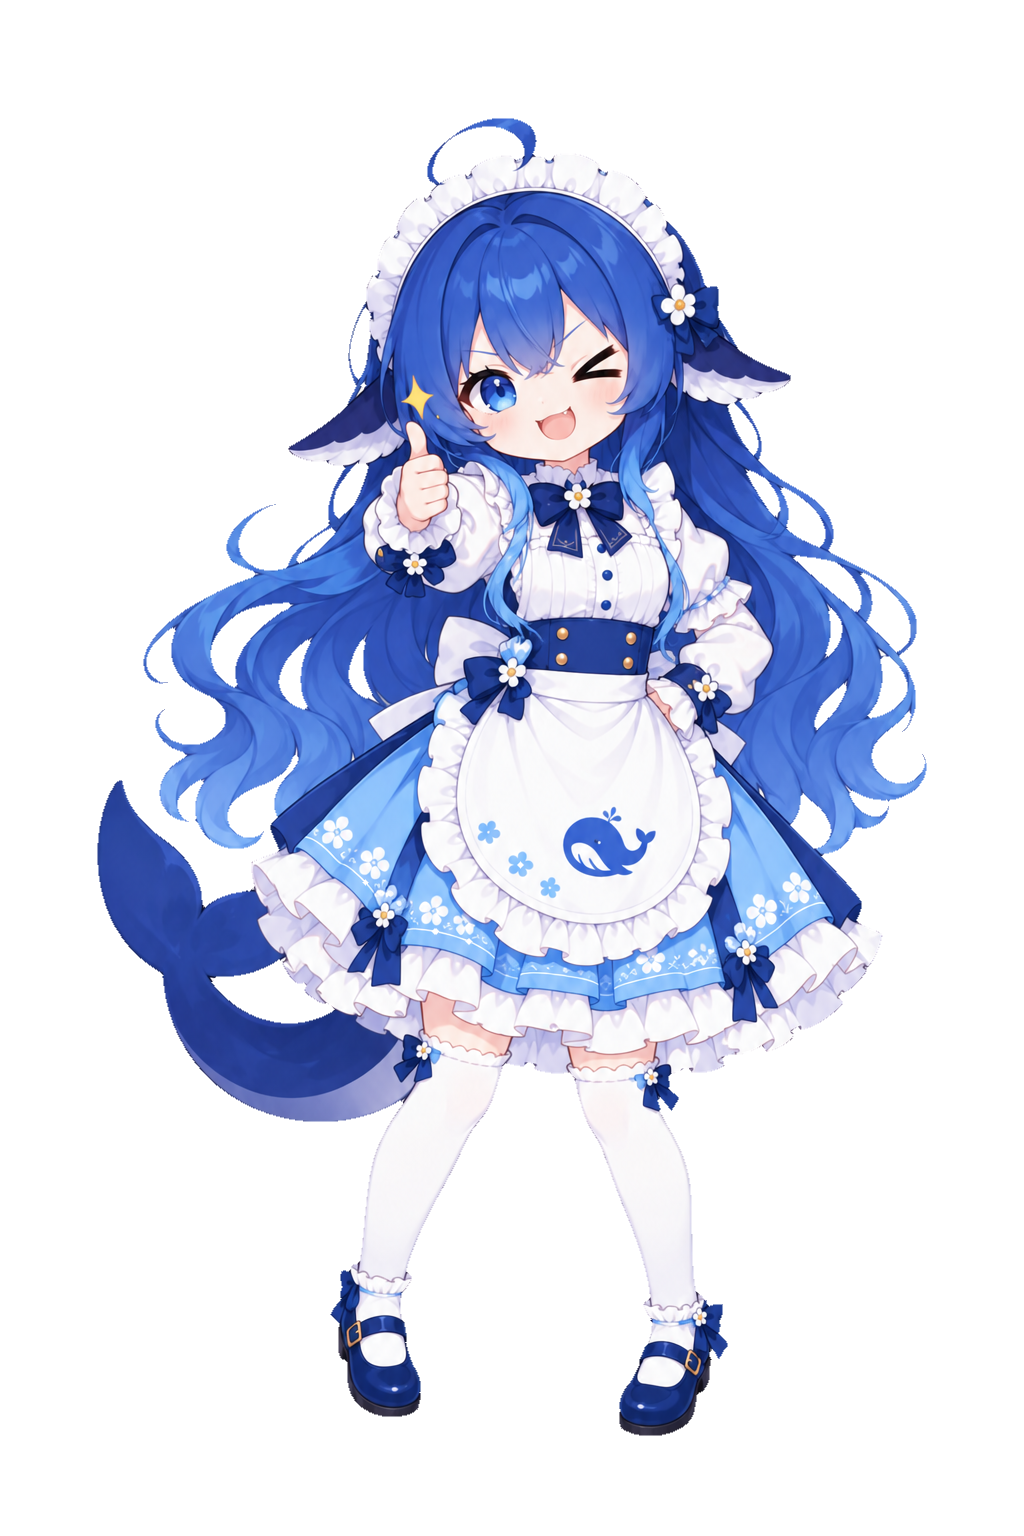
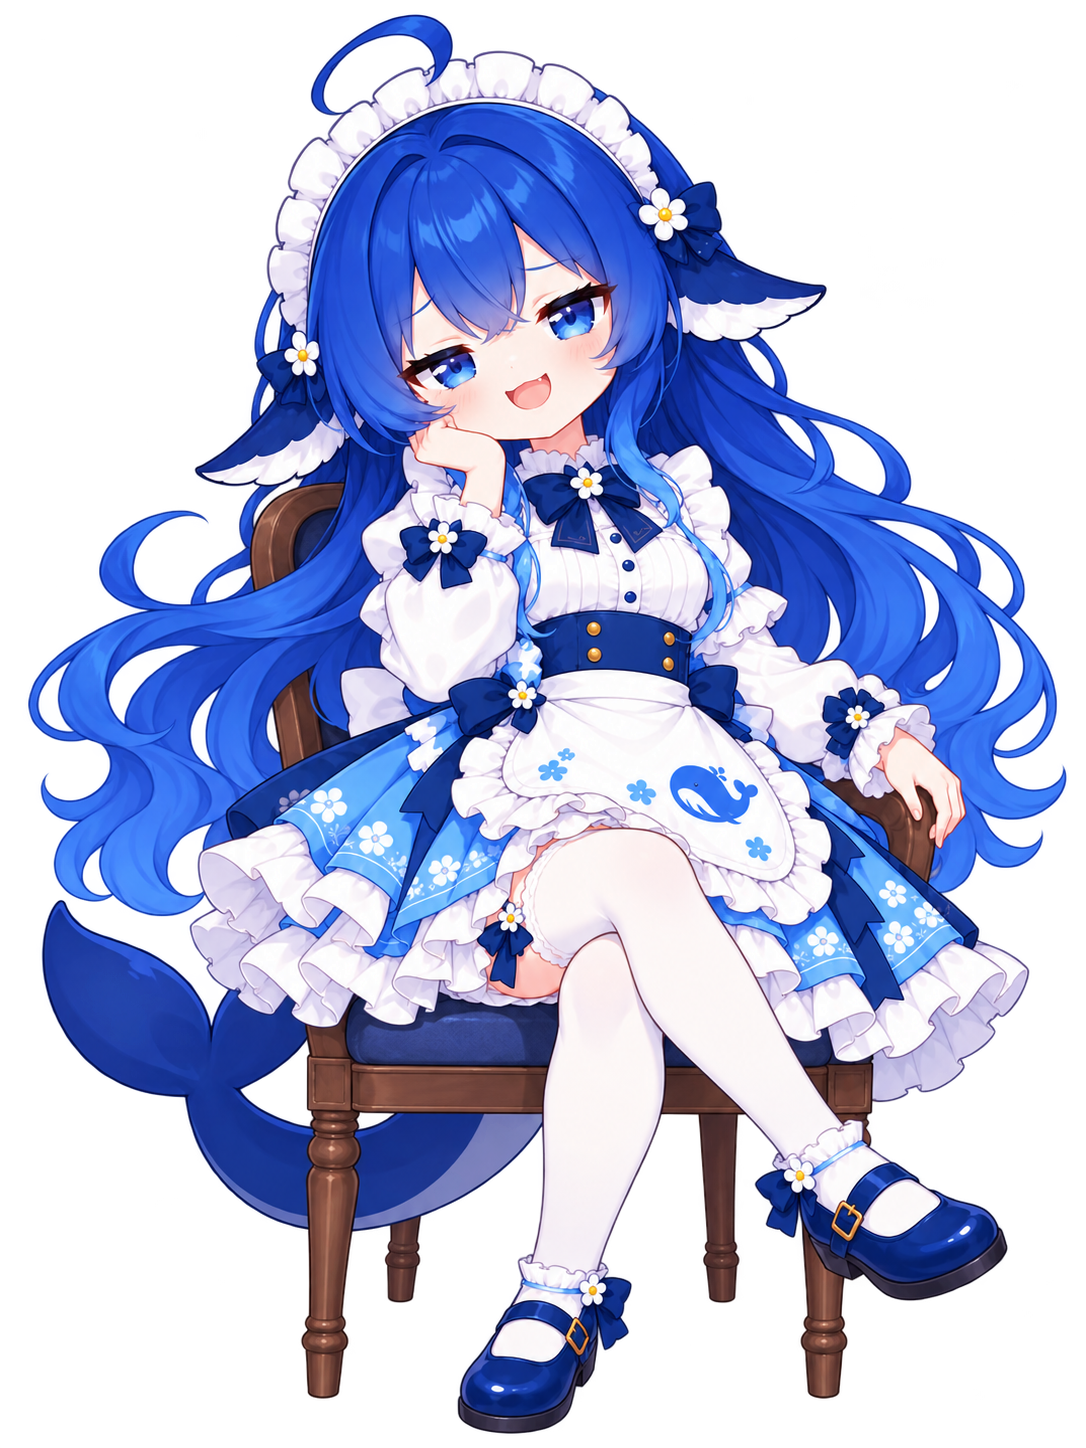
对话立绘整体替换为 2026-10-16 新批 11 张：新图已是透明成品直接落位 transparent/，白底原图同步为新图纯白合成版，更新 portraits.json 元数据（textures 键与路径未动），附白边量化报告

diff --git a/00_对话立绘替换_20261016.md b/00_对话立绘替换_20261016.md
@@ -1,0 +1,104 @@
+# 对话立绘整体替换（2026-10-16）
+
+用户提供 11 张新立绘，**整批替换**原来的 11 张对话差分。入口路径、表情键、剧情引用、存档全部不变，只换图。
+
+## 一句话结论
+
+新图**已经是抠好的透明成品**（不是白底原图），所以**没有走** `tools/rebake_dialogue_portraits.gd` 那套「泛洪判背景 + 内缩 + alpha bleed」流程，直接落位到 `transparent/`；同时把「白底原图」更新为新图的纯白合成版，保证将来重跑重抠脚本时**不会把立绘悄悄退回旧图**。
+
+## 新图来源与判定依据
+
+用户目录：`C:\Users\Administrator\Pictures\新建文件夹 (3)`（11 张，Gemini 下载命名 `file_00000000*.png`）
+
+实测（ffmpeg 抽样统计）：
+
+| 项 | 数值 | 含义 |
+|---|---|---|
+| 色彩类型 | RGBA | 带真实 alpha 通道 |
+| 全透明像素 | 42 % ~ 50 % | **背景已经抠掉**，不是白底图 |
+| 半透明像素 | 8.2 % ~ 9.2 % | 边缘抗锯齿过渡带 |
+| 透明区 RGB 均值 | 0.3 ~ 3.2（近黑） | 透明像素不留白色 → **无「线性过滤白边」来源** |
+| 尺寸 | 10 张 1086×1448、1 张 1024×1536 | 与旧批不同，元数据已同步 |
+
+> 对比：旧「白底原图」是 `ctype=2`（RGB，无 alpha），必须经过重抠才能用。新图不需要。
+
+## 表情对应表
+
+新图按文件名排序编号（也是资源管理器里显示的顺序）；对应关系是我逐张比对**脸部表情与项目语义标题**后定的，其中 `10_concern` 由用户指正后调整。
+
+| 新图# | 新图表情（识别） | 落位槽位 | 清单标题 | 被剧情节点引用 |
+|---|---|---|---|---|
+| 1 | 生气鼓腮 + 怒符 | `01_listen.png` | 认真倾听（`pout` 复用此图） | 1（`pout`） |
+| 4 | 眨眼吐舌 + 手拿粉色小星 | `02_kiss.png` | 比心眨眼 | — |
+| 5 | 手指向上 · 张嘴解说 | `03_talk.png` | 指向说话 | — |
+| 11 | 头顶问号 · 疑惑 | `04_think.png` | 疑问思考（`surprise` 复用此图） | 7 + 1（`surprise`） |
+| 7 | 坐椅 · 托腮 · 温柔眨眼 | `05_relief.png` | 点赞鼓励 | 5 |
+| 6 | 半闭眼低头 · 手抚胸 · 脸红 | `06_shy.png` | 害羞低头 | 1 |
+| 10 | 眨眼 · V 手势 · 星光 | `07_expectant.png` | 期待请求 | — |
+| 8 | 闭眼大笑 · 双臂举起 | `08_cheer.png` | 闭眼欢呼 | — |
+| 9 | 星星眼 · 张嘴 | `09_happy.png` | 星星眼兴奋 | 3 |
+| 3 | 双手合十举胸前 · 睁大眼 · 不安 | `10_concern.png` | **哭泣难过** | 2 |
+| 2 | 挥手 · 张嘴笑 | `11_side_welcome.png` | 挥手欢迎 | 3 |
+
+### 两处需要记录判断过程的地方
+
+1. **`10_concern`（哭泣难过）**：清单里它的用途是「回应疲惫、安慰害怕失败」（`home/rest`、`desk/afraid`）。
+   新图 #3（双手合十举在胸前、睁大眼、微张嘴）原本被我判成「期待」想给 `07_expectant`；
+   **用户指出它是担心**，与标题「哭泣难过」一致，遂改判给 `10_concern`。
+   连带结果是 `07_expectant` 拿剩下的 V 手势眨眼那张。
+2. **`05_relief`（点赞鼓励）**：节点全在休息/陪伴语境（`home/question2`、`home/end`、`bed/rest`、`plant/grow`、`seat/end`，共 5 个），
+   所以把「坐椅托腮温柔眨眼」给了它 —— 比给 V 手势更贴「休息、平安确认、温柔陪伴」。
+
+> `kiss` / `expectant` / `cheer` 三个表情**在 `portraits.json` 的 `variants` 里没有条目**，即没有任何剧情节点指向它们（这条与 10-14 的结论一致），所以 `07_expectant` 语义偏弱不影响实际观感。
+
+## 落位方式（改了哪些文件）
+
+| 路径 | 动作 |
+|---|---|
+| `assets/dialogue/downloaded_20261014/transparent/<槽位>.png` | **新图原样复制**（与源文件 SHA-256 逐张一致，未做任何重编码/缩放） |
+| `assets/dialogue/downloaded_20261014/<槽位>.png` | 新图**合成到纯白**（ffmpeg overlay，输出 `rgb24`），保持「白底原图 → 重抠」这条既有管线可复现 |
+| `assets/dialogue/portraits.json` | 更新 11 条 `image_index` 的 `source_file` / `source_size`、8 条 `variants` 的 `source_size`；`method` 改为 `direct_transparent_cutouts`；新增 `batch` / `batch_note`。**`textures` 13 个键与路径一字未动** |
+
+**没有改动**：任何 `.gd` 代码、`textures` 映射、表情键名、存档文件名与结构、`assets/dialogue/variants_20261013/`（另一套 8 张旧差分，未在本次范围）。
+`character/character_controller.gd:74`（状态页用 `01_listen`）与 `ui/candy_sticker_start.gd:11-13`（CG 鉴赏复用 `03_talk` / `01_listen` / `04_think`）都只引用路径，路径未变，因此无需改动。
+
+## 验证
+
+1. **落位一致性**：11 张 `transparent/<槽位>.png` 与用户源图 **SHA-256 逐张一致**。
+2. **图像格式**：透明图 RGBA、白底原图 `ctype=2`（RGB）；尺寸与清单 `source_size` 一致。
+3. **导入缓存**（关键）：`Godot_v4.7.2 --headless --path . --import` 重新导入 48 步成功（退出码 0）；
+   随后用每个 `.import` 的 `dest_files` 精确定位缓存，比对 `source_md5` 与源文件实际 MD5：**11/11 同步**。
+   （非编辑器模式运行不会自动重导入，这一步必须做，否则实机仍是旧图。）
+4. **白边量化**（`tools/measure_portrait_halo.gd`，直接读盘，绕过缓存）：
+
+   | 贴轮廓的近白透明像素 | 新立绘 | 旧（重抠后） | 旧（重抠前） |
+   |---|---|---|---|
+   | 合计 | **3058** | 2572 | 57140 |
+
+   与「旧图修好之后」同量级、比修前低 95 %，判定**不存在线性过滤白边隐患，无需再抠**。
+   报告写入 `tools/measure_portrait_halo.json`（10-14 的旧报告已归档到备份目录）。
+
+## 备份与回退
+
+改动前的完整状态在 `备份\20261016_立绘替换前\`（该目录不入库）：
+
+```text
+备份\20261016_立绘替换前\
+  01_listen.png … 11_side_welcome.png      ← 旧白底原图（11）
+  transparent\01_listen.png …              ← 旧透明立绘（11）+ cutout_report.txt
+  portraits.json                            ← 旧清单
+  measure_portrait_halo_20261014.json       ← 10-14 的白边报告
+```
+
+回退：把 `transparent\` 与根目录的 11 对 PNG、以及 `portraits.json` 按同名路径覆盖回 `assets/dialogue/downloaded_20261014/` 与 `assets/dialogue/`，然后**再跑一次 `--import`**。
+
+## 遗留与注意
+
+1. **`tools/test_dialogue.gd:79-82` 是过期断言**（v19 时代的三张立绘）：它断言 `portrait_regions.size()==3`、`metadata.method=="original_resolution_rgba"`、纹理尺寸 `== frame_size`。当前体系是 13 个表情键，该断言**在本轮之前就已经失败**（旧清单的 `method` 是 `script_white_background_extraction`）。本次**没有为了让旧断言通过而去伪造 `method`**；要修应当改断言本身。
+2. **`tools/pack_original_portraits.gd` 不要跑**：它是 v19 脚本，会把 `portraits.json` 覆盖成只有 `listen/talk/think` 三个键的旧结构，并重写 `listen_original.png` 等文件。
+3. **重跑 `rebake_dialogue_portraits.gd` 现在会以「新白底原图」为源**，产出与新图近似的结果（会多一次 2px 内缩）；既然新图本身就是干净成品，**本轮不需要跑它**。
+4. 白底原图是**派生文件**（由透明成品合成），不是真正的创作源；新的创作源在用户目录里，建议另行归档。
+5. 对比图（不入库）：`预览\立绘替换_20261016\`
+   - `已落位_按槽位顺序阅读.png`（第1行 01–04、第2行 05–08、第3行 09–11）
+   - `新立绘_11张_按文件夹顺序.png`（用户目录顺序，便于核对编号）
+   - `新立绘_表情特写.png` / `现役立绘_表情特写.png`
